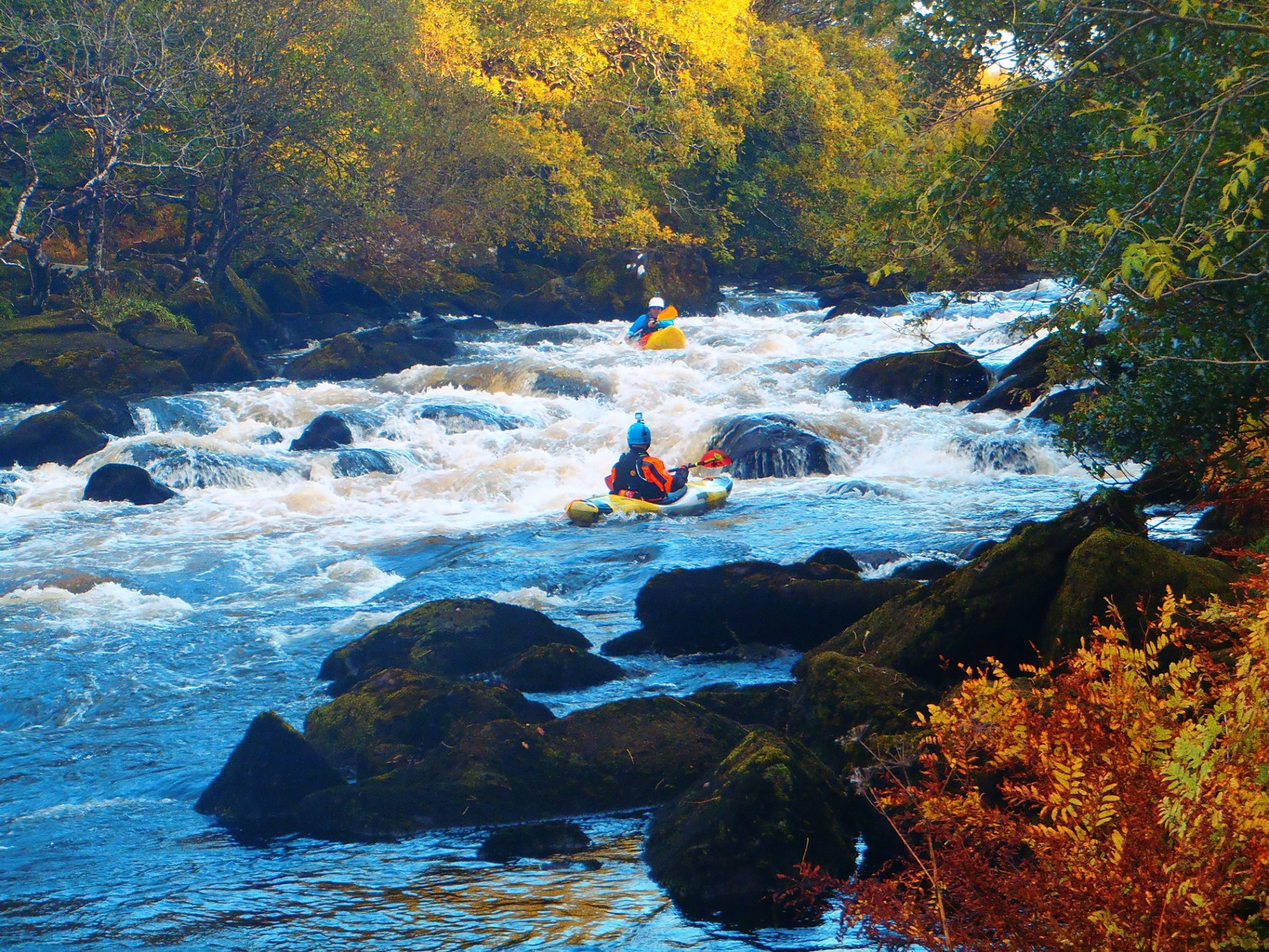
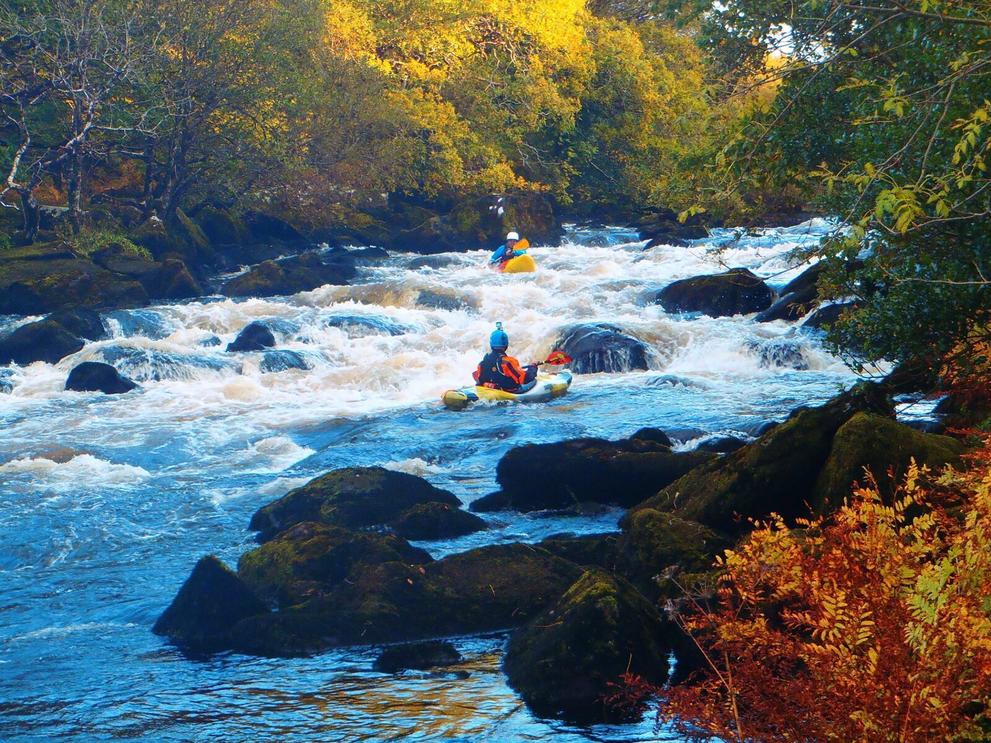
Resize and recompress oversized photos
Eight photos on the safety, disciplines and homepage were served at
1920-2560px wide and 1-5 MB each. Resize them to at most 1600px wide and
re-save as progressive JPEG at quality 82 with metadata stripped, cutting
them from about 21 MB to about 2 MB in total.

The two PNG photos (surfing_at_rossbeigh, pool_session_gleneagle_hotel)
had no transparency, so convert them to JPEG and update their links in
disciplines.html and safety.html.

Claude-Session: https://claude.ai/code/session_0189uNMerBM5KXNdeqY17yYi

diff --git a/safety.html b/safety.html
@@ -31,8 +31,8 @@ permalink: safety.html
 <div class="row">
     <div class="col-sm-6">
         <div class="thumbnail">
-            <a href="assets/images/pool_session_gleneagle_hotel.png">
-                <img src="assets/images/pool_session_gleneagle_hotel.png" alt="Kerry Canoe Club kayaking in a swimming pool, pool session" style="width:100%">
+            <a href="assets/images/pool_session_gleneagle_hotel.jpg">
+                <img src="assets/images/pool_session_gleneagle_hotel.jpg" alt="Kerry Canoe Club kayaking in a swimming pool, pool session" style="width:100%">
                 <div class="caption">
                     <p>Kerry Canoe Club pool session at the Gleneagle Hotel, Killarney.</p>
                 </div>

diff --git a/disciplines.html b/disciplines.html
@@ -108,8 +108,8 @@ permalink: disciplines.html
 <div class="row">
     <div class="col-sm-7">
         <div class="thumbnail">
-            <a href="assets/images/surfing_at_rossbeigh.png">
-                <img src="assets/images/surfing_at_rossbeigh.png" alt="Kerry Canoe Club paddlesurf" style="width:100%">
+            <a href="assets/images/surfing_at_rossbeigh.jpg">
+                <img src="assets/images/surfing_at_rossbeigh.jpg" alt="Kerry Canoe Club paddlesurf" style="width:100%">
                 <div class="caption">
                     <p>Kerry Canoe Club kayak surfing at Brandon Bay.</p>
                 </div>
